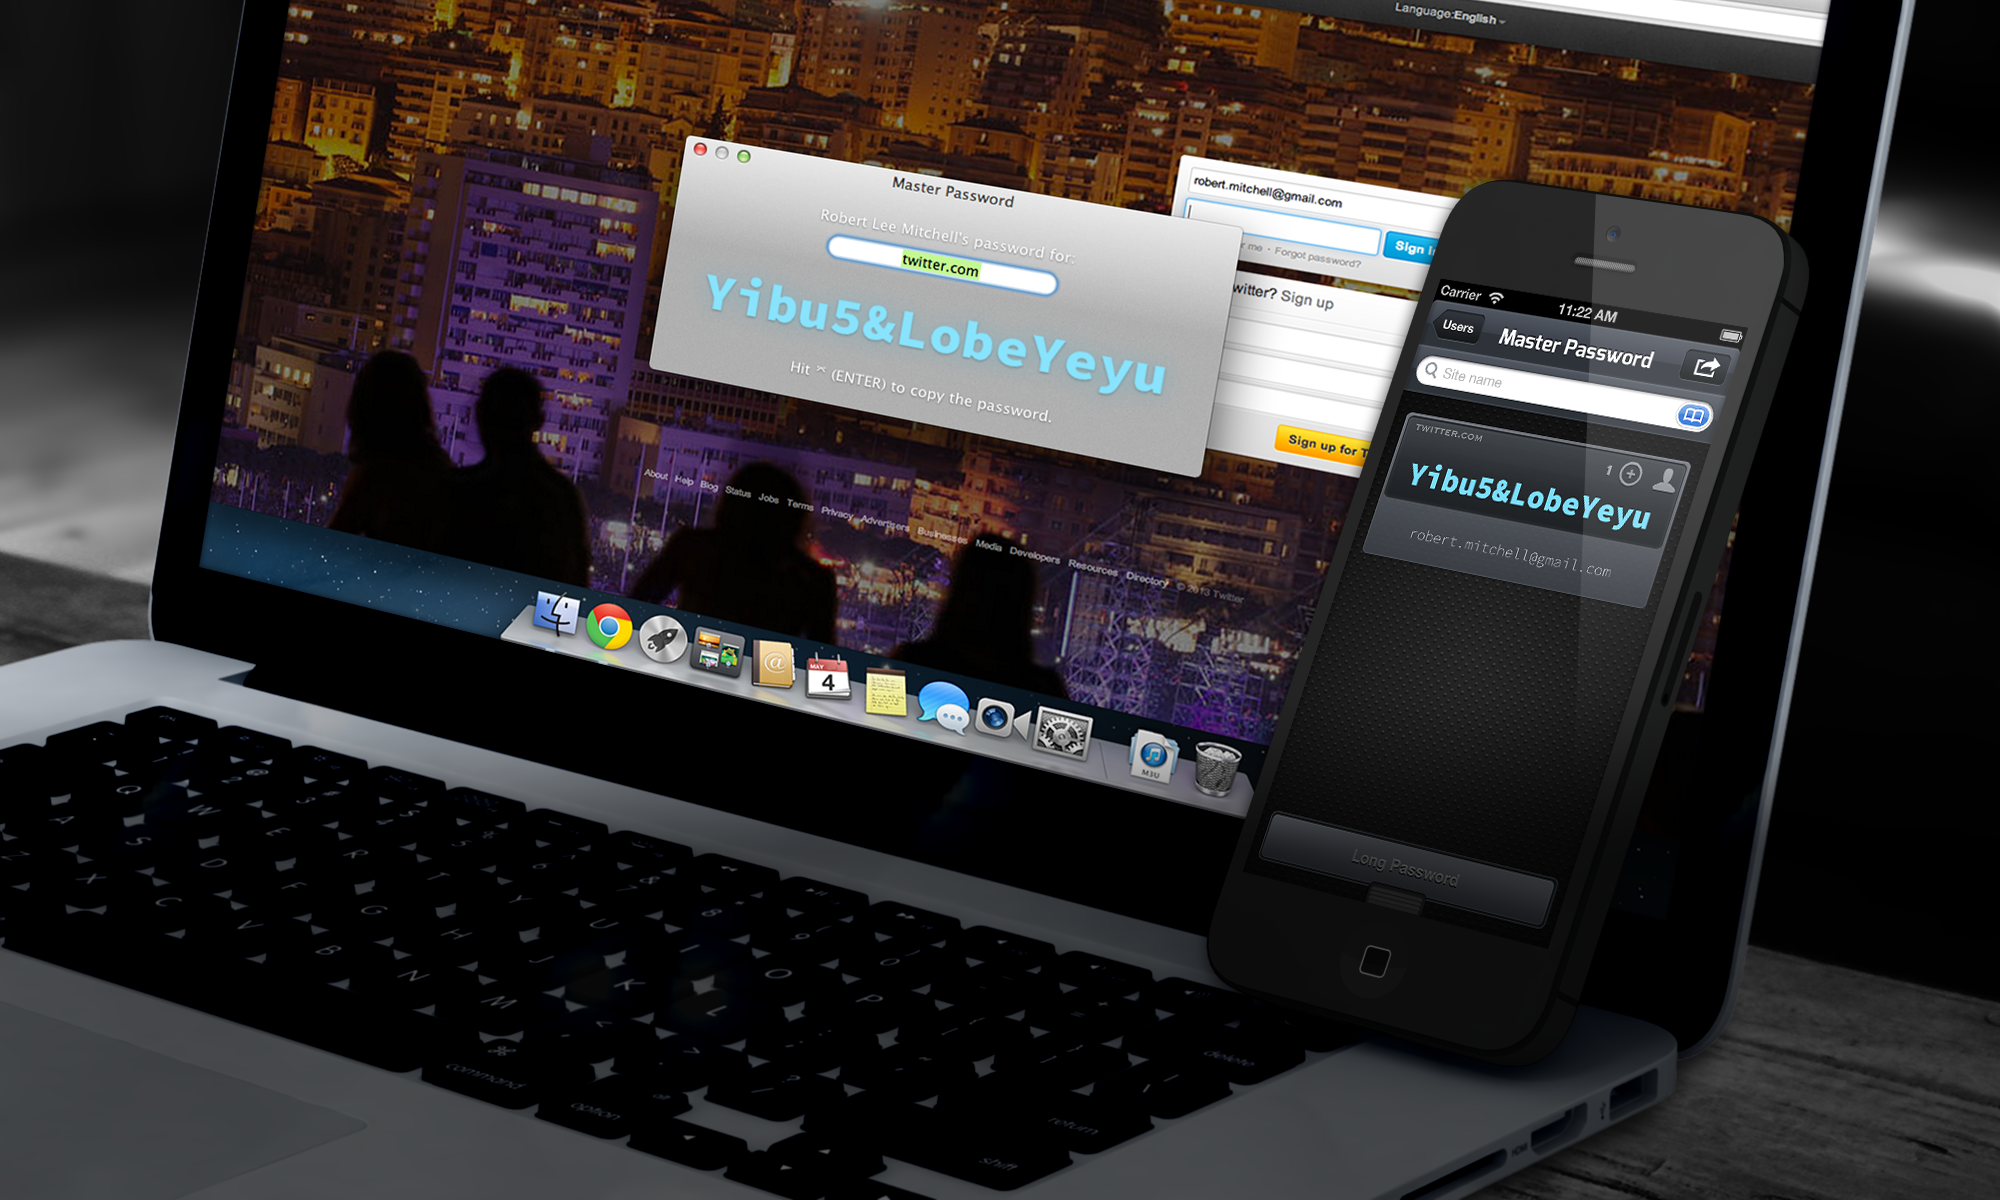
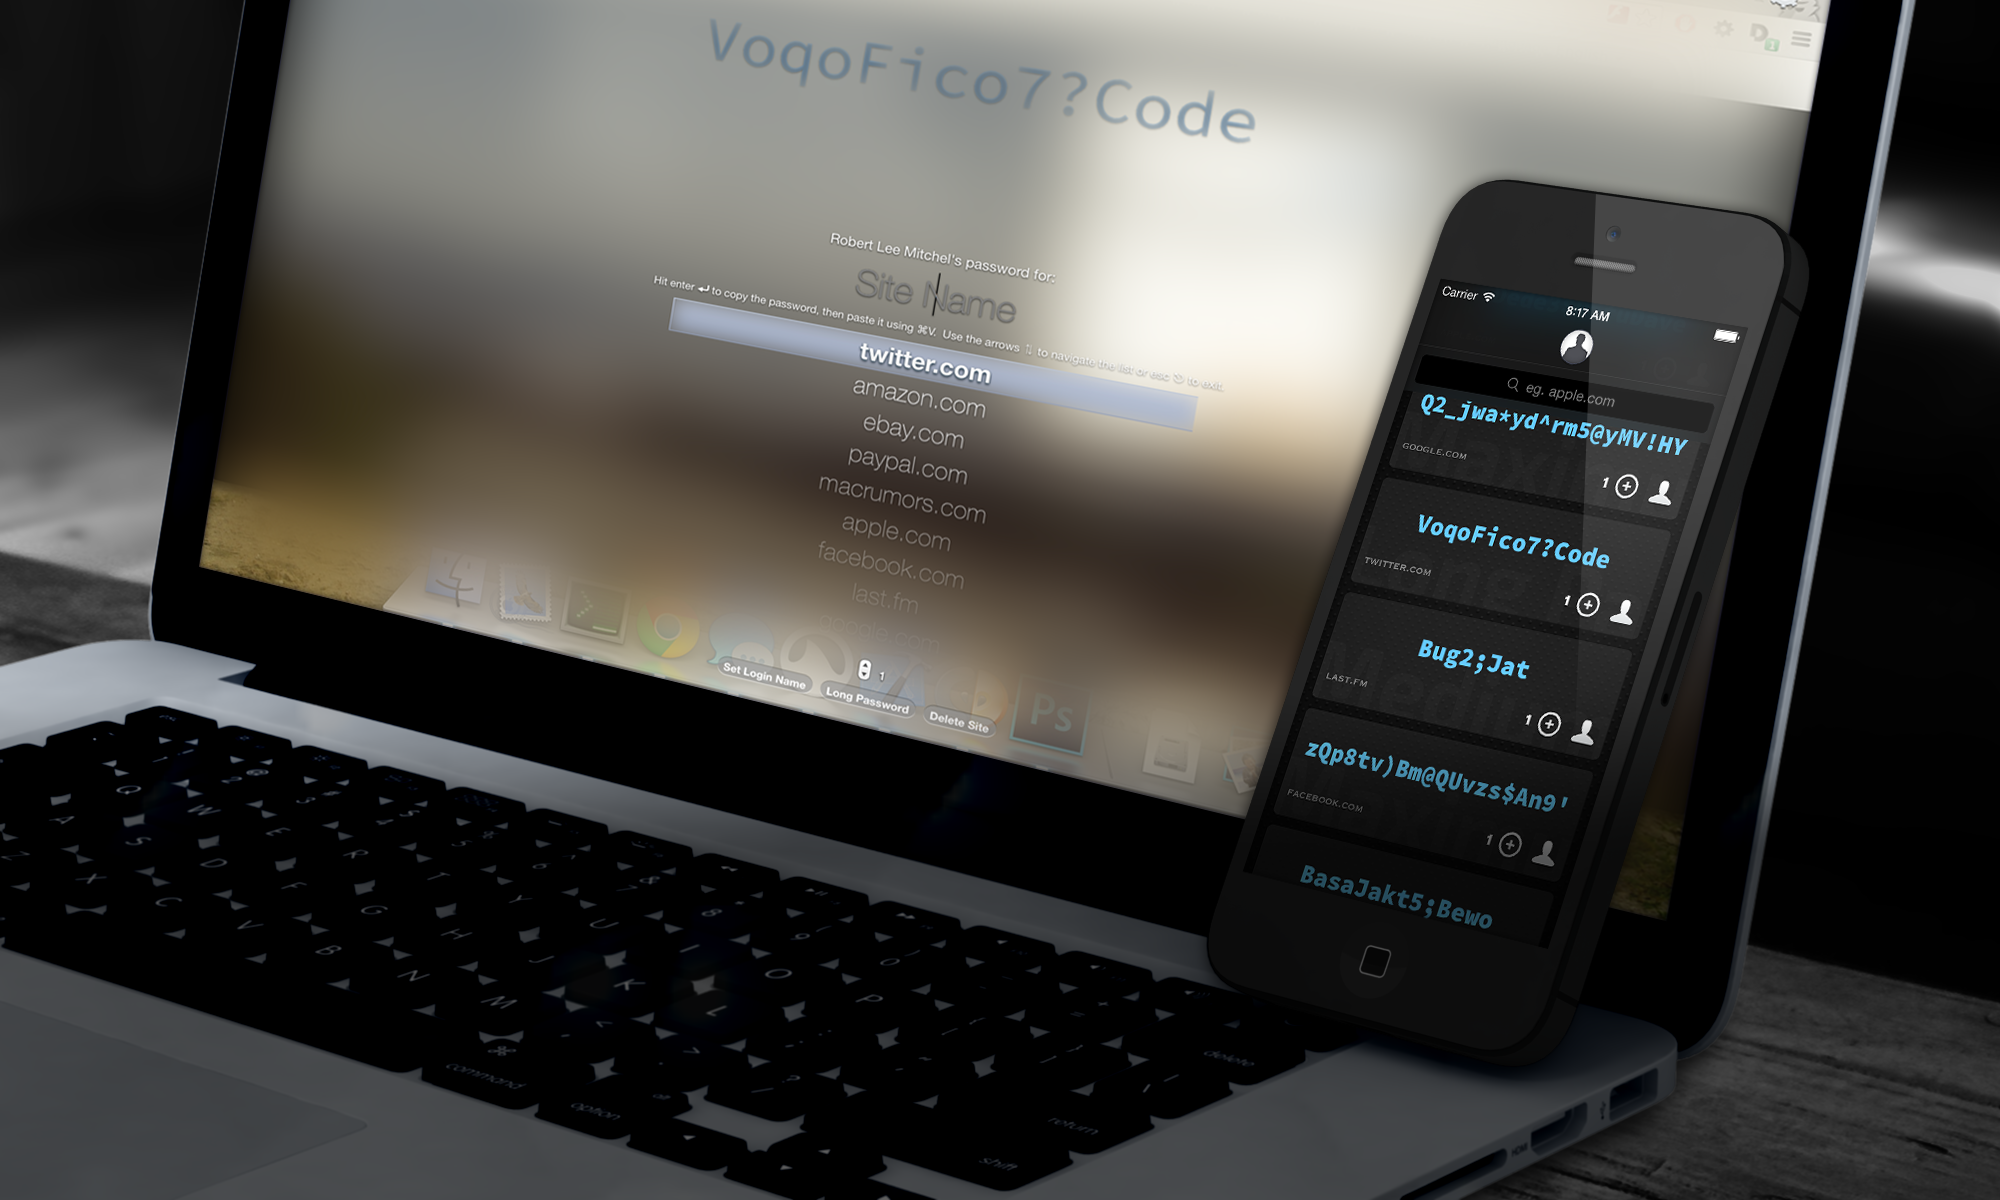
Site: Leaning laptop main image.

diff --git a/Site/2013-05/css/main.css b/Site/2013-05/css/main.css
@@ -168,7 +168,7 @@ header .background {
     height: 80%;
 }
 #app header .background {
-    background: url('../img/shot-laptop-standing-iphone-angled-flipped.png') center center;
+    background: url('../img/shot-laptop-leaning-iphone.png') center center;
     background-size: cover;
 }
 #algorithm header,
